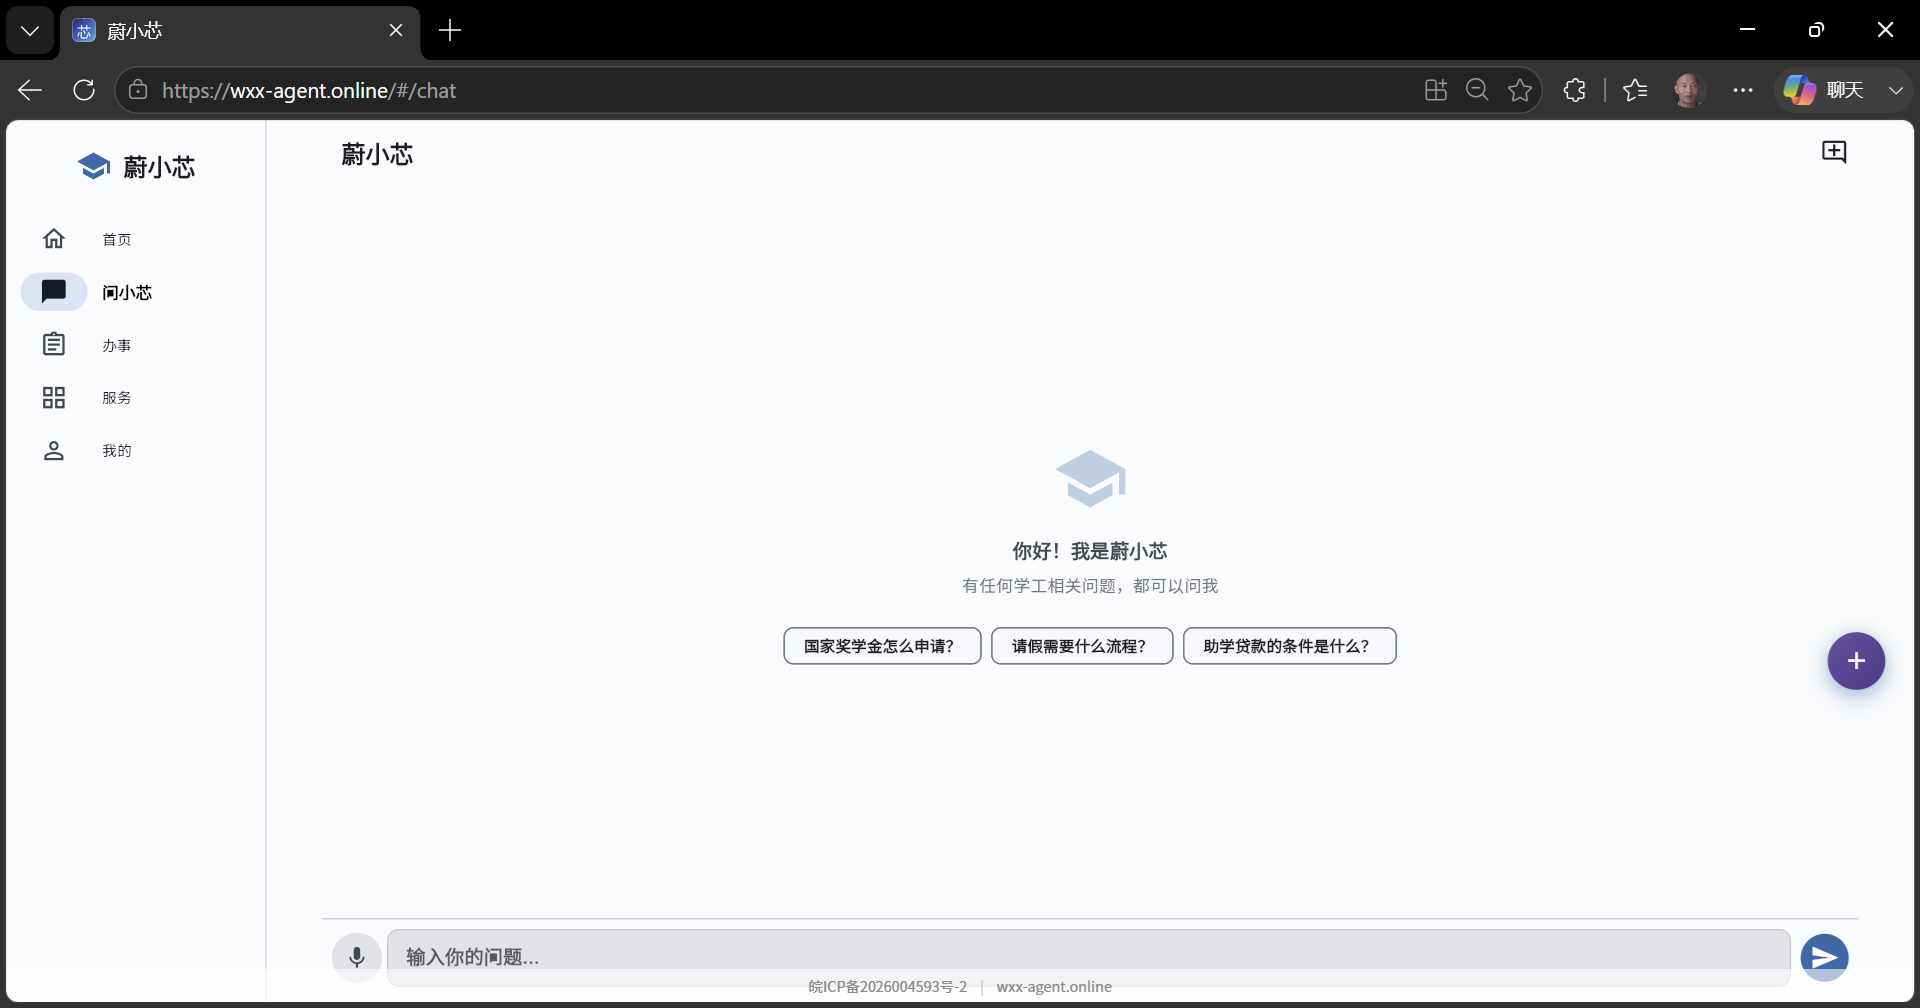
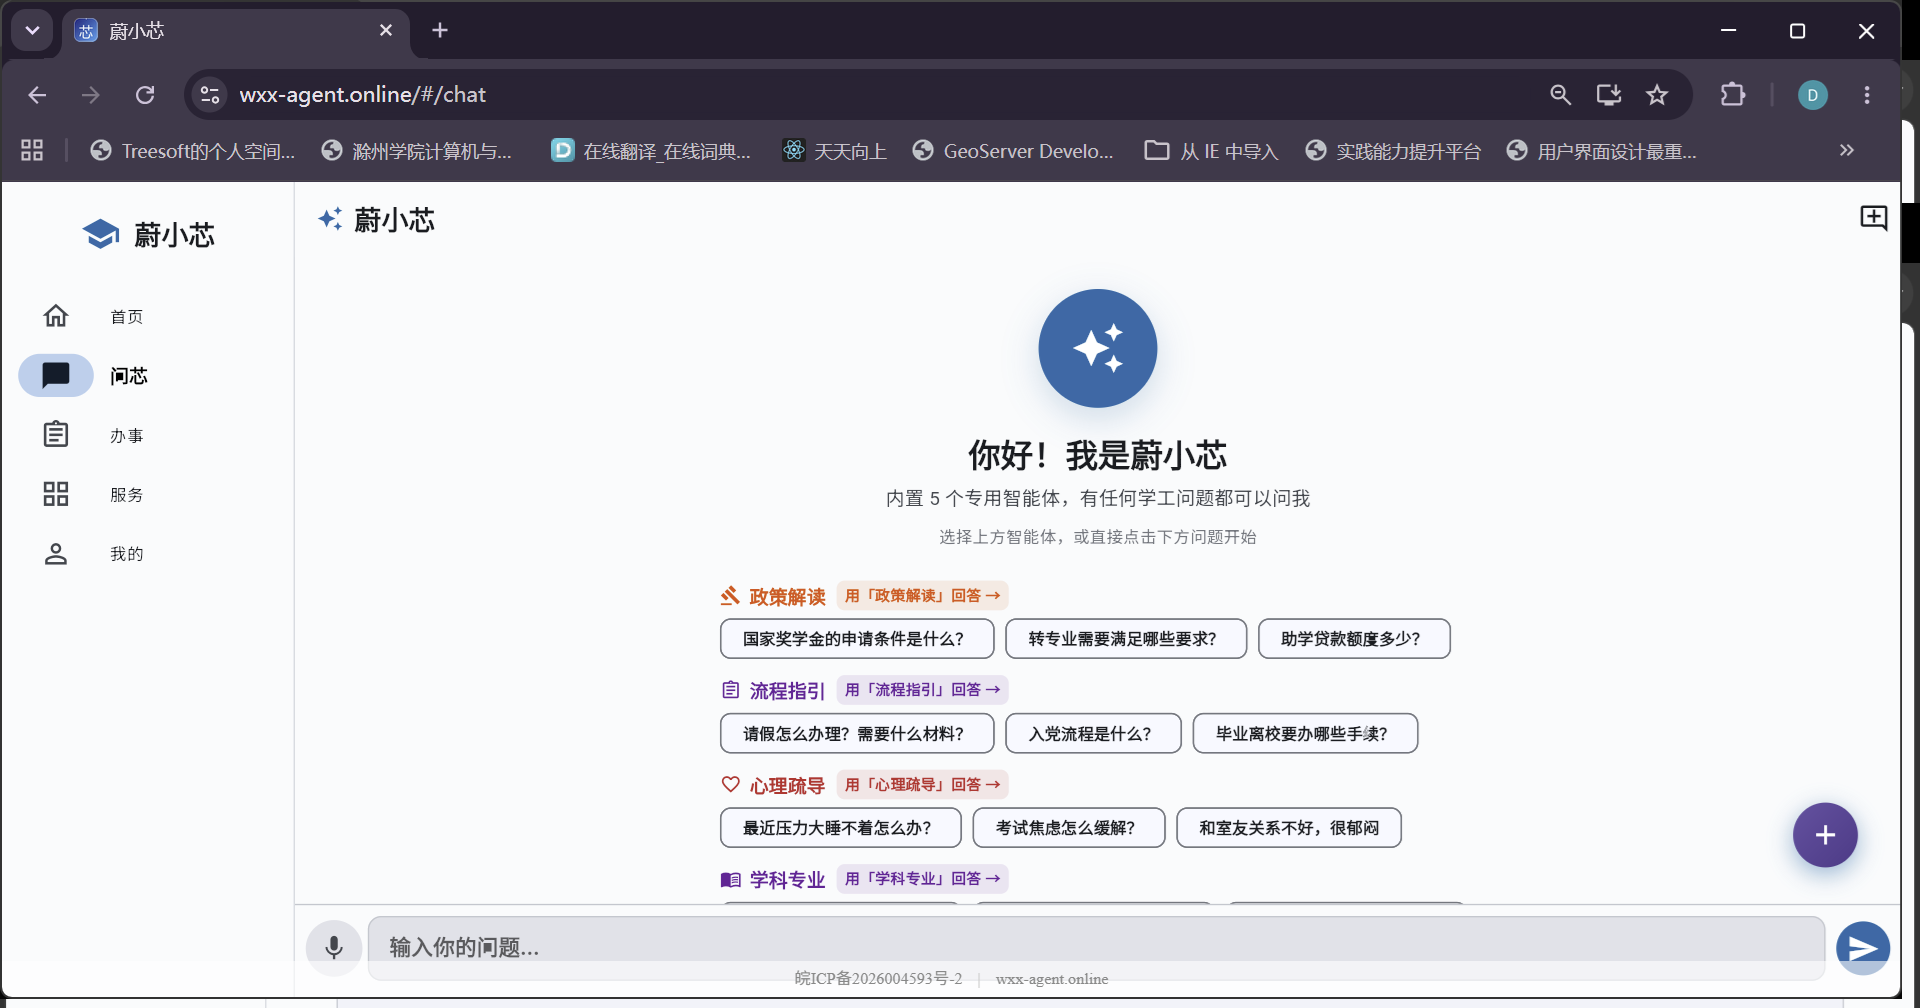
feat(twin): 画像尺寸 512→256（1/4），前端展示同步 256 保持清晰精致

diff --git a/frontend/lib/pages/student/digital_twin_page.dart b/frontend/lib/pages/student/digital_twin_page.dart
@@ -193,7 +193,8 @@ class _DigitalTwinPageState extends State<DigitalTwinPage> {
             base64Decode(portrait.imageBase64),
             fit: BoxFit.cover,
             width: double.infinity,
-            height: 320,
+            // 与生成尺寸（256x256）一致，避免放大模糊
+            height: 256,
             errorBuilder: (_, __, ___) => const SizedBox(
               height: 120,
               child: Center(child: Text('画像数据异常')),

diff --git a/server/internal/llm/imagegen.go b/server/internal/llm/imagegen.go
@@ -84,8 +84,8 @@ func (c *ZhipuCogViewClient) Generate(ctx context.Context, prompt string, refIma
 	req := cogViewRequest{
 		Model:  c.model,
 		Prompt: prompt,
-		// 512x512：头像展示场景足够清晰，显著降低响应体积/成本/时延（原 1024x1024）
-		Size: "512x512",
+		// 256x256：头像/画像展示场景足够清晰，显著降低响应体积/成本/时延
+		Size: "256x256",
 	}
 	if len(refImageData) > 0 {
 		// 图生图：转为 data URL base64
